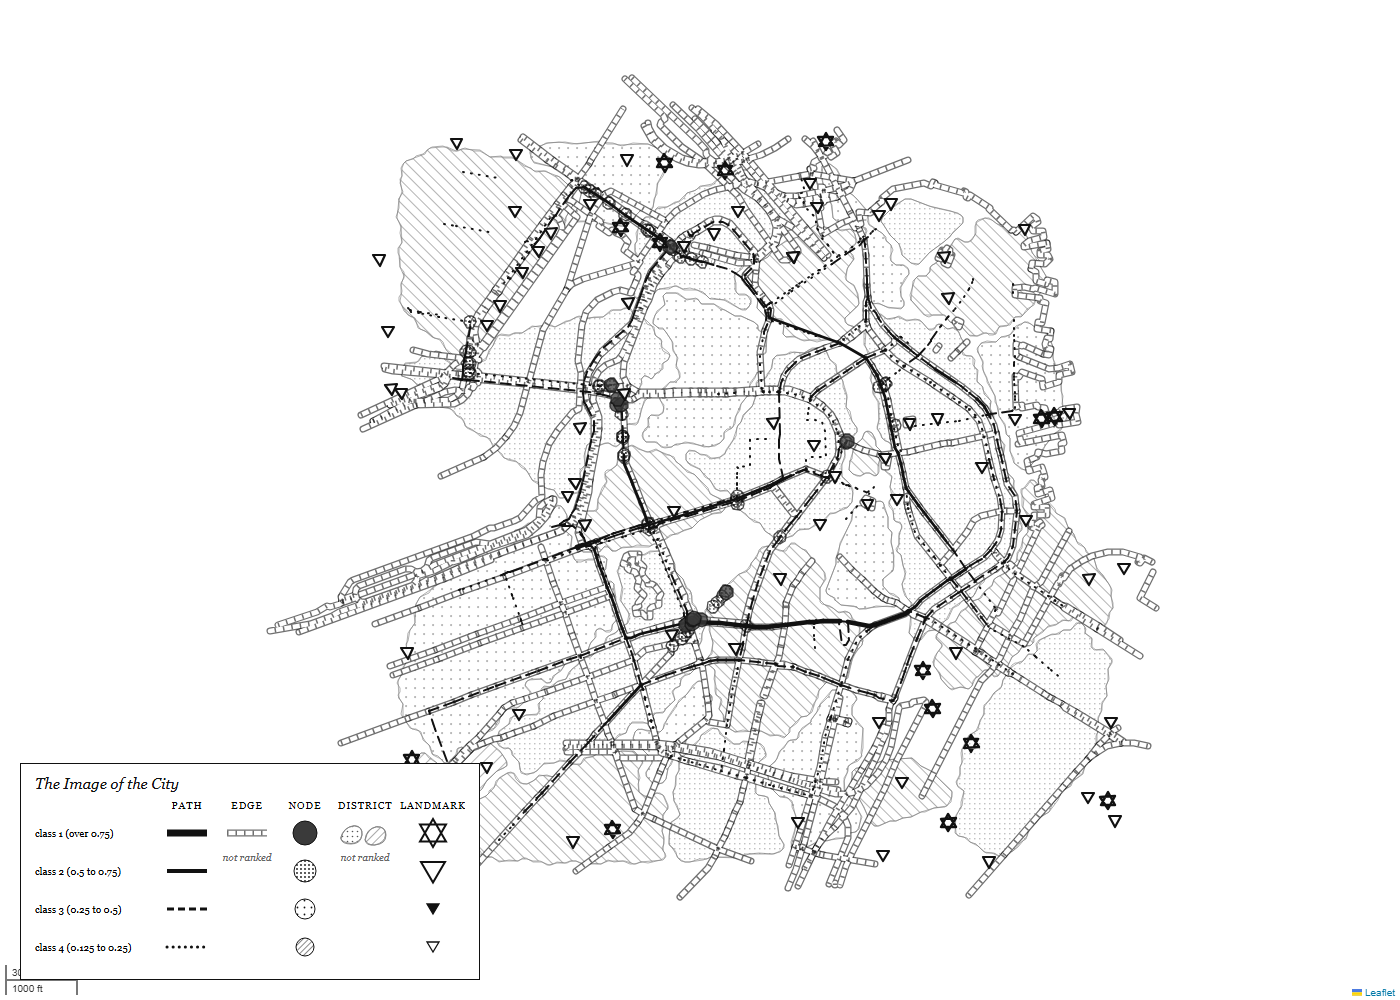
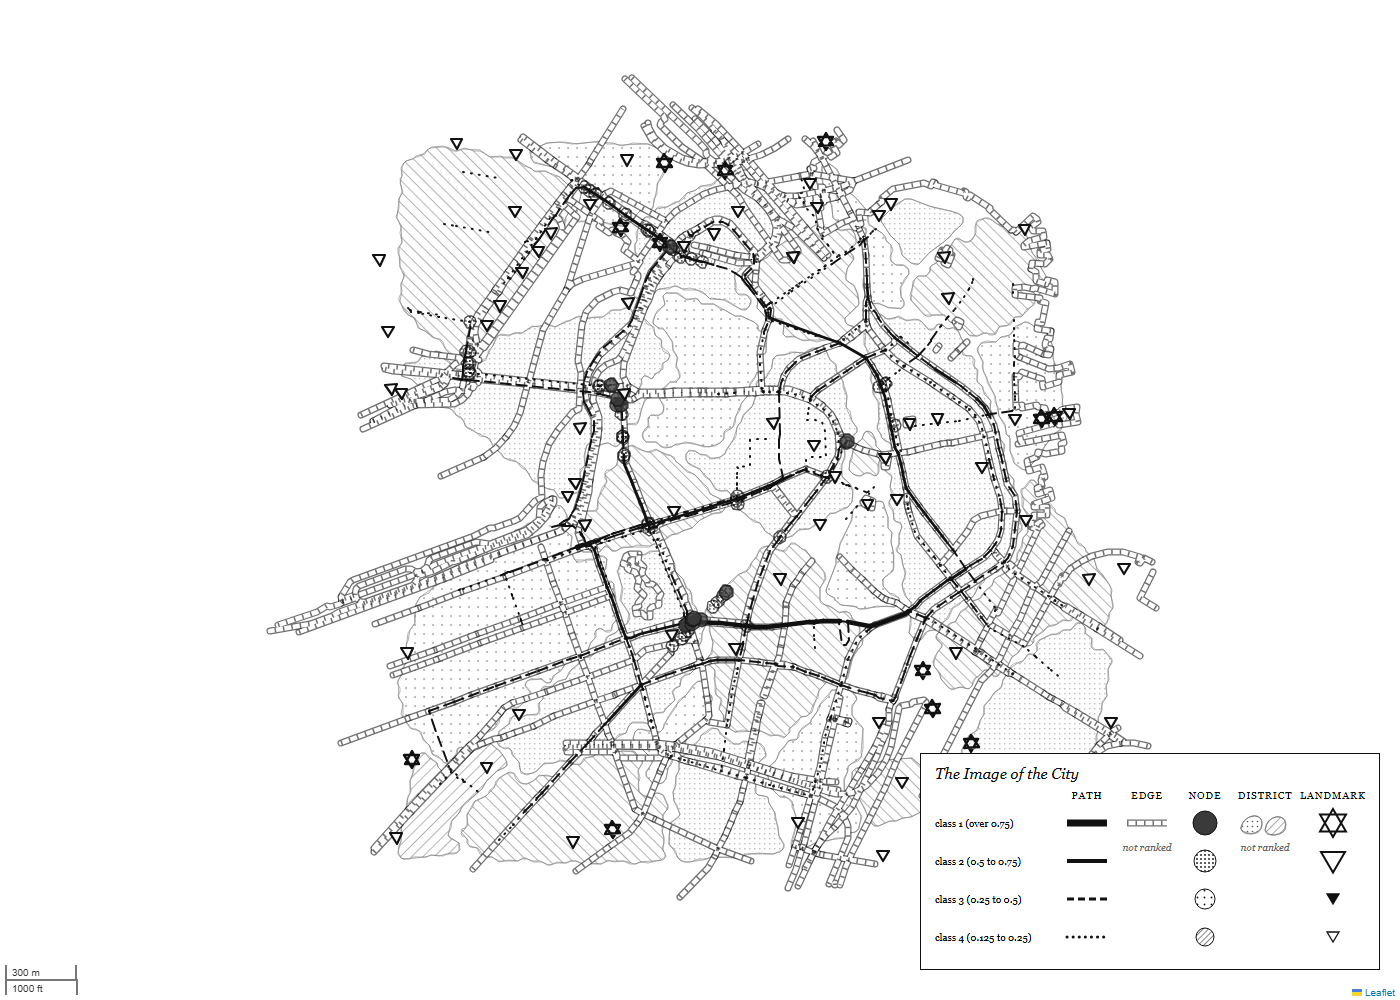
Move the explore() legend to the right and show Boston in the README
The legend sat over the map's scale bar, bottom left. The gallery images are
redrawn with the legend bottom right, and the README shows Boston, the area of
Lynch's own study, rather than Freiburg.

diff --git a/cityImage/interactive.py b/cityImage/interactive.py
@@ -504,7 +504,7 @@ def _stars(points: gpd.GeoSeries, side: float) -> list[MultiPolygon]:
 
 
 _LEGEND = """
-<div style="position: fixed; bottom: 20px; left: 20px; z-index: 9999; background: #fff;
+<div style="position: fixed; bottom: 30px; right: 20px; z-index: 9999; background: #fff;
             border: 1px solid #111; padding: 10px 14px 8px; color: #111;
             font: 11px/1.3 Georgia, 'Times New Roman', serif;">
   <div style="font-style: italic; font-size: 15px; margin-bottom: 6px;">

diff --git a/README.md b/README.md
@@ -7,11 +7,11 @@
 
 # cityImage
 
-<img src="https://raw.githubusercontent.com/g-filomena/cityImage/master/docs/_static/gallery/freiburg.png" alt="The computational Image of the City of Freiburg im Breisgau, drawn with the symbols of Lynch's legend" width="100%">
+<img src="https://raw.githubusercontent.com/g-filomena/cityImage/master/docs/_static/gallery/boston.png" alt="The computational Image of the City of central Boston, drawn with the symbols of Lynch's legend" width="100%">
 
-*Freiburg im Breisgau: paths, edges, nodes, districts and landmarks from one call to
-`image_of_the_city`, drawn by `img.explore()` with the symbols of Lynch's legend. More in the
-[gallery](https://cityimage.readthedocs.io/en/latest/gallery.html).*
+*Boston, 1.5 km around the Common, the area of Lynch's own study: paths, edges, nodes, districts
+and landmarks from one call to `image_of_the_city`, drawn by `img.explore()` with the symbols of
+Lynch's legend. More in the [gallery](https://cityimage.readthedocs.io/en/latest/gallery.html).*
 
 **cityImage** is a Python package for analysing urban legibility and extracting a
 computational version of Kevin Lynch's *Image of the City* from geospatial data.
